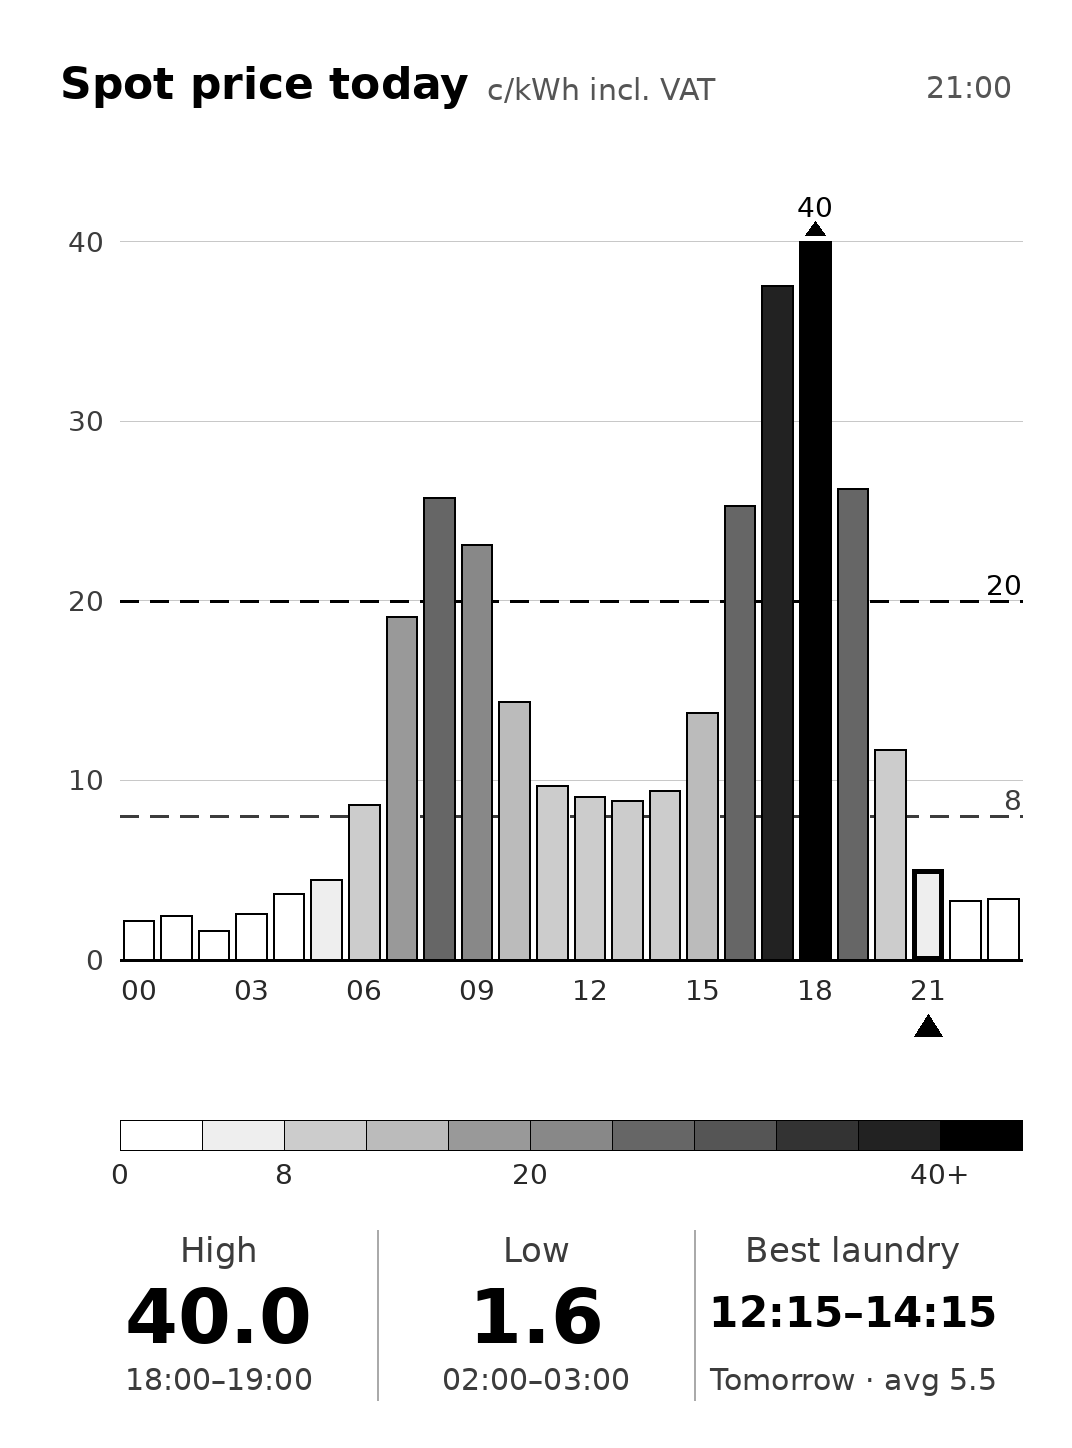
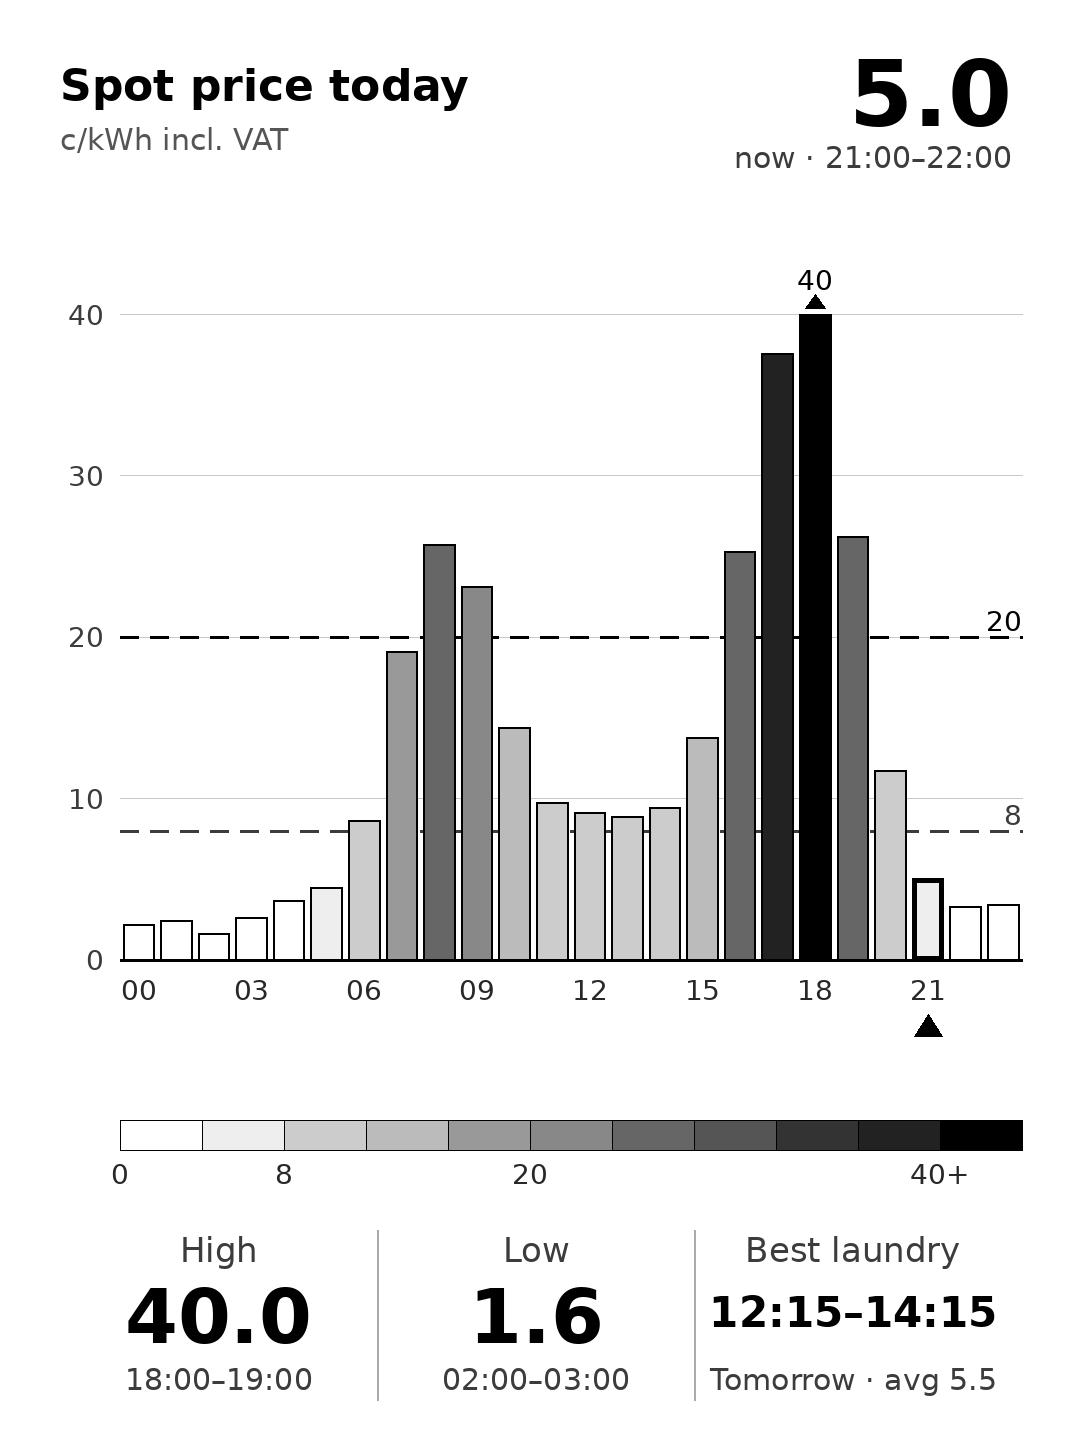
Show current price, Lockscreen ON re-downloads images

diff --git a/render/render.py b/render/render.py
@@ -239,20 +239,27 @@ def render(hours: list[Hour], laundry: Window | None, now: datetime, out_path: P
     f_label = load_font("regular", 34)
     f_big = load_font("bold", 76)
     f_mid = load_font("bold", 42)
+    f_now = load_font("bold", 92)
 
     now_l = now.astimezone(TZ)
 
     # ---- header ----
     title = "Spot price today"
-    d.text((60, 58), title, font=f_title, fill=0)
-    d.text((60 + d.textlength(title, font=f_title) + 18, 72),
-           "c/kWh incl. VAT", font=f_small, fill=85)
-    # which hour this image is for (shows how old the lock screen is)
-    d.text((WIDTH - 60, 70), f"{now_l:%H}:00", font=f_small, fill=85, anchor="ra")
+    d.text((60, 60), title, font=f_title, fill=0)
+    d.text((60, 122), "c/kWh incl. VAT", font=f_small, fill=85)
+
+    # current hour's price, big, top right (also shows which hour this image is for)
+    current = next((h for h in hours if h.start <= now_l < h.start + timedelta(hours=1)), None)
+    if current is not None:
+        d.text((WIDTH - 60, 40), fmt_price(current.price), font=f_now, fill=0, anchor="ra")
+        span = f"now · {fmt_hm(current.start)}–{fmt_hm(current.start + timedelta(hours=1))}"
+        d.text((WIDTH - 60, 140), span, font=f_small, fill=60, anchor="ra")
+    else:
+        d.text((WIDTH - 60, 72), f"{now_l:%H}:00", font=f_small, fill=85, anchor="ra")
 
     # ---- chart geometry ----
     left, right = 120, WIDTH - 50
-    top, bottom = 170, 960
+    top, bottom = 250, 960
     plot_h = bottom - top
     scale_top = Y_MAX + Y_HEADROOM
     has_negative = any(h.price < 0 for h in hours)

diff --git a/README.md b/README.md
@@ -32,7 +32,7 @@ Details: [docs/how-it-works.md](docs/how-it-works.md)
 
 - **Today's 24 hourly prices** (average of the four 15-minute prices), in c/kWh including VAT
 - **Gray level per 4 c/kWh**, from white (< 4) to black (≥ 40); dashed lines at 8 c ("cheap") and 20 c ("expensive")
-- **Current hour** marked with a triangle; the hour is also printed in the corner, so a stale lock screen is easy to spot
+- **Current price** in large type at the top right, with its hour (e.g. `now · 13:00–14:00`), so a stale lock screen is easy to spot; the current hour's bar is outlined and marked with a triangle
 - **Highest / lowest hour** of the day
 - **Best 2-hour laundry window**: the cheapest continuous 2 hours between 07:00 and 22:00 in the rest of the day; late in the evening it switches to tomorrow
 
@@ -126,6 +126,7 @@ downloaded: check Wi-Fi and `url.txt`, and look at `sslive/log.txt`.
 - **After a reboot** the stock lock screen is back; tap **Lockscreen ON** once.
 - **Lockscreen OFF** restores the stock lock screen and stops the updater.
 - **Updating** to a new version of the scripts: repeat steps 3, 5 and 7.
+- Tapping **Lockscreen ON** again re-downloads all images (useful after the image design changed).
 - **Uninstall:** tap **Lockscreen OFF**, delete `ss_on.sh`, `ss_off.sh` and the `sslive` folder.
   About 1.5 MB of downloaded images stays in `/var/local/sslive` on internal storage
   (harmless; it can be removed over SSH or kTerm).

diff --git a/docs/README.zh-CN.md b/docs/README.zh-CN.md
@@ -11,7 +11,7 @@
 
 - **今天 24 小时的电价柱状图**：每小时取 4 个 15 分钟价格的平均值，单位 c/kWh，含增值税
 - **按价格分灰阶**：每 4c 一级，白色（< 4）到黑色（≥ 40）；虚线标出 8c（便宜）和 20c（贵）
-- **当前小时**：柱子下方的三角形；右上角也写着这张图对应的小时，一眼能看出锁屏是不是旧的
+- **当前电价**：右上角大字显示，下面注明对应的小时（比如 `now · 13:00–14:00`），一眼能看出锁屏是不是旧的；当前小时的柱子加粗，下方有三角标记
 - **最高价、最低价**的时段
 - **最佳洗衣时段**：今天剩余时间里、7 点到 22 点之间最便宜的连续 2 小时；晚上已经没有合适时段时，改为显示明天的（明天的电价约 14 点公布）
 
@@ -94,6 +94,7 @@ kindle/
 - **重启后**会恢复成原来的锁屏，点一次 **Lockscreen ON** 即可
 - **Lockscreen OFF**：恢复原来的锁屏，停止后台脚本
 - **更新脚本到新版本**：重复安装步骤 3、5、7
+- 再点一次 **Lockscreen ON** 会重新下载所有图片（比如图片设计改了之后）
 - **卸载**：点 **Lockscreen OFF**，删掉 `ss_on.sh`、`ss_off.sh` 和 `sslive` 文件夹。内部存储的 `/var/local/sslive` 里会留下约 1.5 MB 已下载的图，不影响使用，想删可以通过 SSH 或 kTerm
 
 #### 可选：检查脚本
